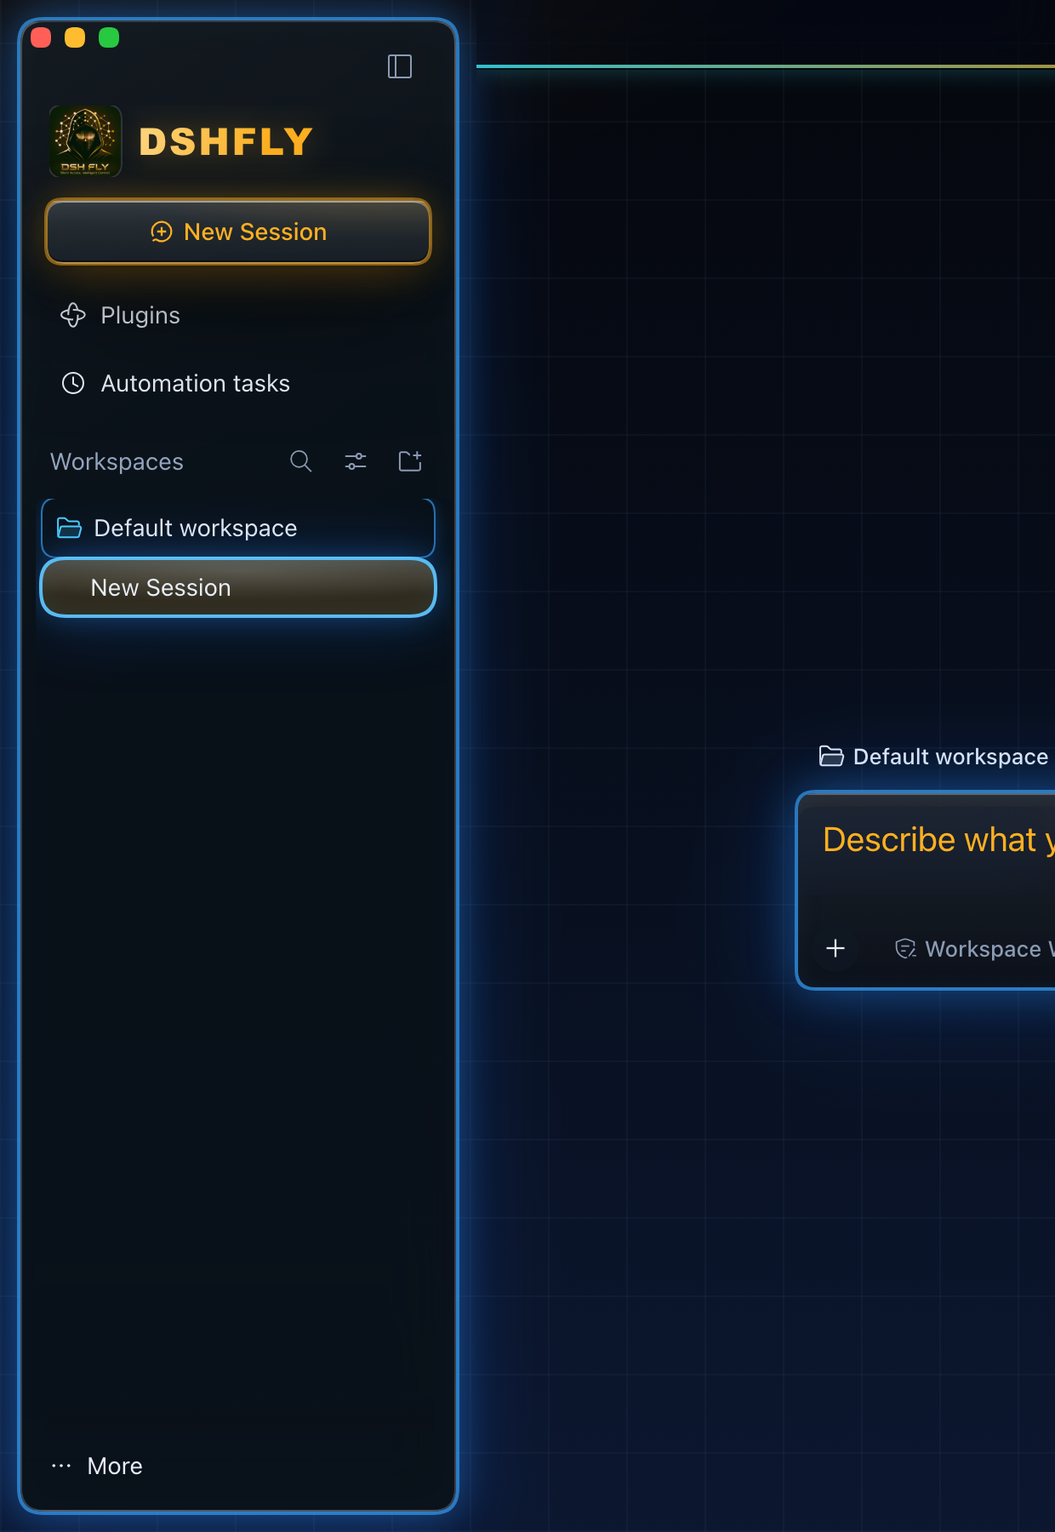
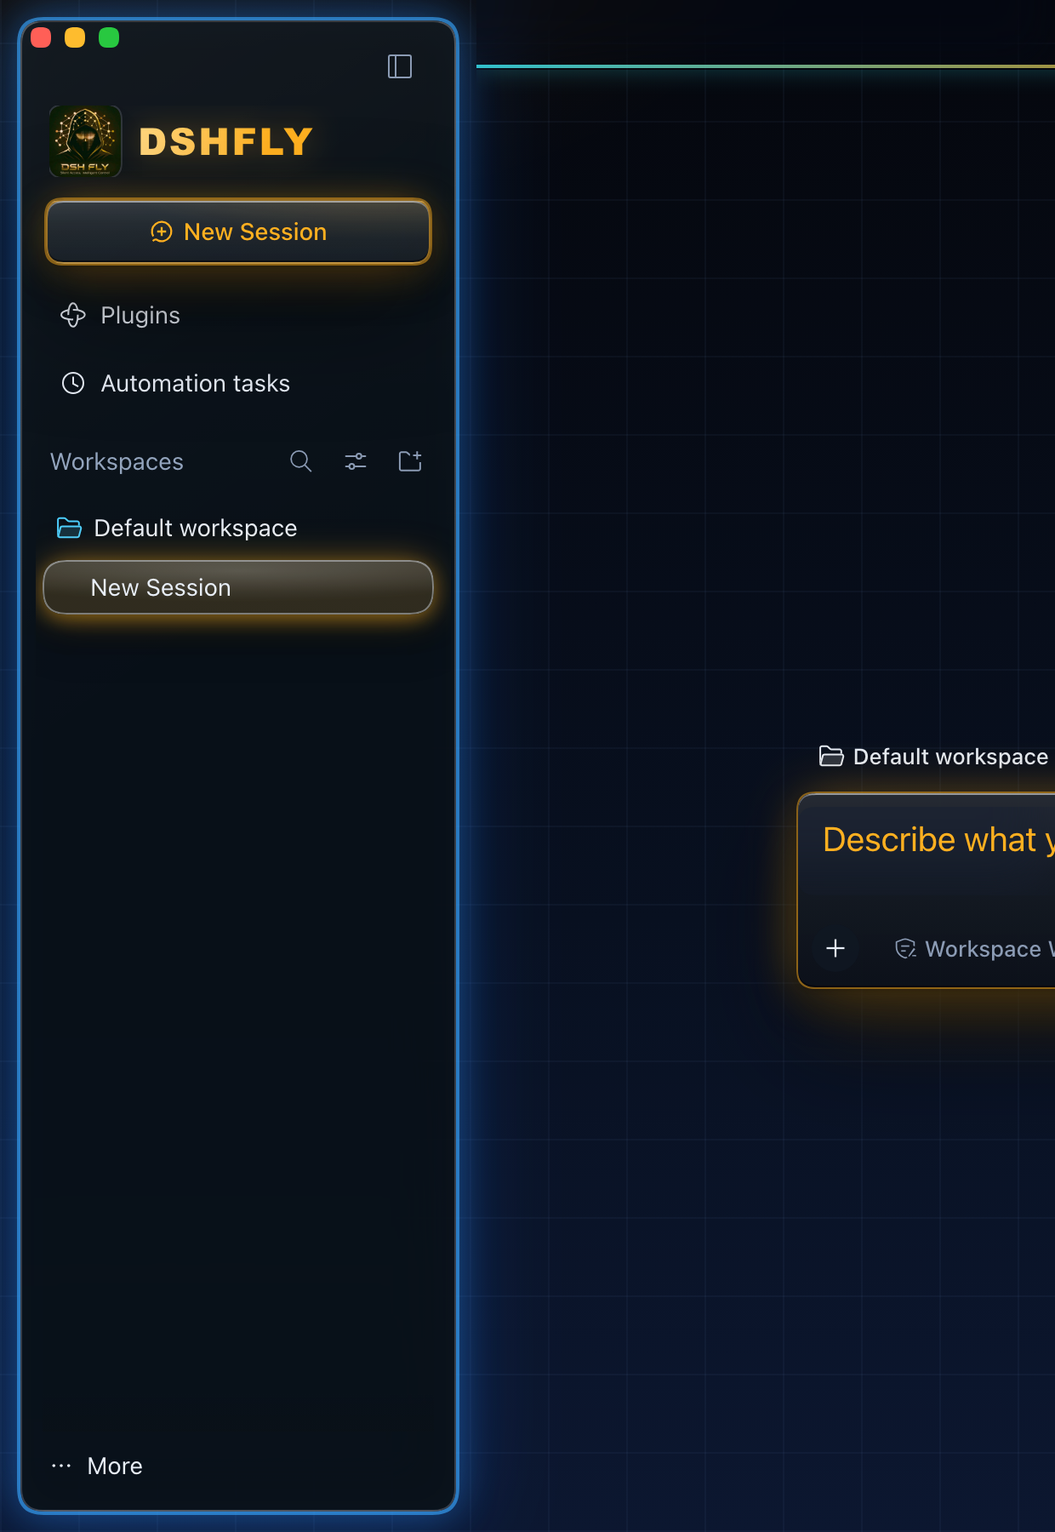
fix(design): 强发光范围收紧 —— 只留「左侧栏边框」与「任务列表卡片」
用户第二次裁决：蓝光只该给①任务列表卡片、②左侧栏边框；上一版把**工作区输入框**和
**会话选中胶囊**也点亮了，越界，必须撤回。

改动：
- 删掉 composer（`[class*='composerStack'] [class*='_card']`）、sessionRow（含选中）、
  projectRow、panelRow、键盘焦点环五类目标；
- 只保留：栏卡 `[class$='_frame']:has(> [class*='sidebarCol']) [class*='sidebarCol']`
  与任务卡 `[class*='rightbarCol'] [class*='_card']` / `[data-session-schedule-task]`；
- 对照图新增 `*-composer.png`（证明输入框保持原样、无蓝光）与 `*-tasks.png`
  （自动化任务面板空态无卡，用上游真实类名 `Ww4dvW_card` 造三张夹具卡判光强）；
- README 第一节改成**范围表（✅ 两处 / ❌ 五处不发光）**，这张表就是验收口径；
  已知坑补两条：范围错误 + 空态面板只能夹具（落地后要用真实任务复拍）。

`npm run verify` 13/13（含设计 token 一致性 20 项）。

Changed region(s): [[0.0306, 0.3422, 0.429, 0.4356], [0.7048, 0.4978, 1.0, 0.6844]]

diff --git a/docs/design/neon-glow/variant-b-pulse.css b/docs/design/neon-glow/variant-b-pulse.css
@@ -1,11 +1,10 @@
 /* ============================================================================
-   neon · 科幻化第二轮 · 方向 B ——「强发光 / 蓝边呼吸」
+   neon · 科幻化第二轮 · 方向 B ——「强发光 / 蓝边呼吸」（**范围收紧版**）
    ----------------------------------------------------------------------------
-   与 A 同一骨架，强度再上一档：
-   · 环 3px（`0 0 0 3px`），中晕 34px、远晕 88px，光更"外溢"；
-   · 侧栏卡与选中行带**呼吸**（4.2s，halo 在 60%–100% 之间摆，不闪）；
-   · 输入卡 / 工具卡 hover 时向外扩一圈；
-   · 全部在 prefers-reduced-motion: no-preference 下才动。
+   范围与 A 完全相同（只左侧栏边框 + 任务列表卡片），强度再上一档：
+   · 环 3px，中晕 34px、远晕 88px；
+   · 任务卡 hover 时有 2.6s 的缓慢呼吸（只在 no-preference 下）；
+   · 其余表面**一律不碰**：输入框、会话胶囊、工作区行、面板行、焦点环全部保持原样。
    ========================================================================== */
 
 html[data-fly-palette='neon'] {
@@ -16,7 +15,7 @@ html[data-fly-palette='neon'] {
   --fly-glow-inner: rgba(120, 214, 255, 0.14);
 }
 
-/* ① 侧栏卡：3px 环 + 大光晕（呼吸） */
+/* ① 左侧栏卡片 */
 html[data-fly-palette='neon'] body[data-ds-dark-theme] [class$='_frame']:has(> [class*='sidebarCol']) [class*='sidebarCol'] {
   box-shadow:
     0 0 0 3px var(--fly-glow-ring),
@@ -25,83 +24,45 @@ html[data-fly-palette='neon'] body[data-ds-dark-theme] [class$='_frame']:has(> [
     inset 0 0 34px -6px var(--fly-glow-inner);
 }
 
-/* ② 会话行 / 工作区行 */
-html[data-fly-palette='neon'] body[data-ds-dark-theme] [class*='sessionRow']:not([class*='selected']),
-html[data-fly-palette='neon'] body[data-ds-dark-theme] [class*='projectRow'] {
-  box-shadow:
-    0 0 0 2px var(--fly-glow-ring),
-    0 0 18px -2px var(--fly-glow-near);
-  border-radius: 10px;
-}
-html[data-fly-palette='neon'] body[data-ds-dark-theme] [class*='sessionRow'][class*='selected'] {
-  box-shadow:
-    0 0 0 3px var(--fly-glow-core),
-    0 0 30px 2px var(--fly-glow-near),
-    0 0 64px 8px var(--fly-glow-far),
-    inset 0 0 24px -4px var(--fly-glow-inner);
-}
-html[data-fly-palette='neon'] body[data-ds-dark-theme] [class*='sessionRow']:hover:not([class*='selected']),
-html[data-fly-palette='neon'] body[data-ds-dark-theme] [class*='projectRow']:hover {
+/* ② 任务列表卡片 */
+html[data-fly-palette='neon'] body[data-ds-dark-theme] [class*='rightbarCol'] [class*='_card'],
+html[data-fly-palette='neon'] body[data-ds-dark-theme] [data-session-schedule-task] {
   box-shadow:
     0 0 0 3px var(--fly-glow-ring),
     0 0 28px 2px var(--fly-glow-near),
-    0 0 60px 4px var(--fly-glow-far);
+    0 0 68px 8px var(--fly-glow-far),
+    inset 0 0 24px -6px var(--fly-glow-inner);
 }
 
-/* ③ 面板行 hover 点亮 */
-html[data-fly-palette='neon'] body[data-ds-dark-theme] [class*='_panelRow'] {
-  border-radius: 10px;
-}
-html[data-fly-palette='neon'] body[data-ds-dark-theme] [class*='_panelRow']:hover {
+/* ③ 任务卡 hover：更亮 + 呼吸（只动光晕，不动环宽） */
+html[data-fly-palette='neon'] body[data-ds-dark-theme] [class*='rightbarCol'] [class*='_card']:hover,
+html[data-fly-palette='neon'] body[data-ds-dark-theme] [data-session-schedule-task]:hover {
   box-shadow:
-    0 0 0 2px var(--fly-glow-ring),
-    0 0 22px 0 var(--fly-glow-near);
-}
-
-/* ④ 输入卡 / 工具卡：3px 环 + 远晕，hover 再外扩 */
-html[data-fly-palette='neon'] body[data-ds-dark-theme] [class*='composerStack'] [class*='_card'],
-html[data-fly-palette='neon'] body[data-ds-dark-theme] [class*='_ioCard'] {
-  box-shadow:
-    0 0 0 3px var(--fly-glow-ring),
+    0 0 0 3px var(--fly-glow-core),
     0 0 36px 4px var(--fly-glow-near),
-    0 0 92px 12px var(--fly-glow-far),
-    inset 0 0 28px -6px var(--fly-glow-inner);
-}
-html[data-fly-palette='neon'] body[data-ds-dark-theme] [class*='composerStack'] [class*='_card']:focus-within,
-html[data-fly-palette='neon'] body[data-ds-dark-theme] [class*='_ioCard']:hover {
-  box-shadow:
-    0 0 0 3px var(--fly-glow-core),
-    0 0 44px 6px var(--fly-glow-near),
-    0 0 110px 14px var(--fly-glow-far);
+    0 0 84px 10px var(--fly-glow-far),
+    inset 0 0 26px -6px var(--fly-glow-inner);
 }
 
-/* ⑤ 焦点 */
-html[data-fly-palette='neon'] body[data-ds-dark-theme] :is(button, a, [role='button'], input, textarea):focus-visible {
-  outline: none;
-  box-shadow:
-    0 0 0 3px var(--fly-glow-core),
-    0 0 28px 0 var(--fly-glow-near);
-}
-
-/* ⑥ 呼吸（选中行 + 侧栏卡），幅度只在光晕上，环的粗细不动 */
 @media (prefers-reduced-motion: no-preference) {
-  html[data-fly-palette='neon'] body[data-ds-dark-theme] [class*='sessionRow'][class*='selected'] {
-    animation: fly-glow-breathe 4.2s ease-in-out infinite;
+  html[data-fly-palette='neon'] body[data-ds-dark-theme] [class*='rightbarCol'] [class*='_card']:hover,
+  html[data-fly-palette='neon'] body[data-ds-dark-theme] [data-session-schedule-task]:hover {
+    animation: fly-glow-task-breathe 2.6s ease-in-out infinite;
   }
-  @keyframes fly-glow-breathe {
+  @keyframes fly-glow-task-breathe {
     0%, 100% {
       box-shadow:
         0 0 0 3px var(--fly-glow-core),
-        0 0 22px 0 rgba(46, 146, 255, 0.34),
-        0 0 52px 4px rgba(34, 118, 255, 0.20),
-        inset 0 0 20px -4px var(--fly-glow-inner);
+        0 0 26px 2px rgba(46, 146, 255, 0.36),
+        0 0 64px 6px rgba(34, 118, 255, 0.22),
+        inset 0 0 22px -6px var(--fly-glow-inner);
     }
-    60% {
+    55% {
       box-shadow:
         0 0 0 3px var(--fly-glow-core),
-        0 0 34px 4px var(--fly-glow-near),
-        0 0 76px 10px var(--fly-glow-far),
-        inset 0 0 26px -4px var(--fly-glow-inner);
+        0 0 38px 5px var(--fly-glow-near),
+        0 0 92px 12px var(--fly-glow-far),
+        inset 0 0 28px -6px var(--fly-glow-inner);
     }
   }
 }

diff --git a/docs/design/neon-glow/variant-a-strong.css b/docs/design/neon-glow/variant-a-strong.css
@@ -1,15 +1,19 @@
 /* ============================================================================
-   neon · 科幻化第二轮 · 方向 A ——「强发光 / 蓝边常亮」
+   neon · 科幻化第二轮 · 方向 A ——「强发光 / 蓝边常亮」（**范围收紧版**）
    ----------------------------------------------------------------------------
-   方向按用户给的两个参考点：
-   ① 发光类组件（任务栏列表卡 / 输入卡）——蓝色发光边框**加粗**（2px 实环）、外光晕**加强**；
-   ② 左侧会话栏的卡片边框也吃同一套发光（蓝边 + 外光晕 + 极淡内辉）。
+   范围（用户 2026-10-18 第二次裁决）：
+     ✅ 只给两处：① 左侧栏的**卡片边框**；② **任务列表卡片**（schedule / automation 任务卡）。
+     ❌ 不许发光：工作区输入框（composer）、会话选中胶囊（sessionRow）、工作区行（projectRow）、
+        面板行（panelRow）、键盘焦点环 —— 上一版把这些也点亮了，是越界。
 
-   实现手法：一律用 `box-shadow` 叠环（0 0 0 Npx 不加布局），不写 border —— 改 border 会挪内容。
-   光晕分三层：近环（0 0 0 2px）+ 中晕（0 0 18px）+ 远晕（0 0 46px），内辉一层 inset。
+   手法：不写 border，只用 `box-shadow` 叠环（`0 0 0 Npx` 做"加粗蓝边"，不改布局），
+   再叠中晕 / 远晕 / 内辉。两个旋钮可以分别调。
 
-   锚点：`sidebarCol` / `sessionRow` / `projectRow` / `panelRow` / `composerStack [class*='_card']`
-   / `_ioCard`。不写死 hash。
+   锚点：
+   · 左侧栏卡：`[class$='_frame']:has(> [class*='sidebarCol']) [class*='sidebarCol']`
+   · 任务卡：`[data-session-schedule-task]`（会话里的任务条）与
+     `[class*='rightbarCol'] [class*='_card']`（自动化任务面板里的任务卡）。
+   不写死 hash。
    ========================================================================== */
 
 html[data-fly-palette='neon'] {
@@ -20,7 +24,7 @@ html[data-fly-palette='neon'] {
   --fly-glow-inner: rgba(96, 200, 255, 0.10);
 }
 
-/* ① 侧栏卡：蓝边 + 三层光晕 + 内辉 */
+/* ① 左侧栏卡片：蓝边 + 三层光晕 + 内辉 */
 html[data-fly-palette='neon'] body[data-ds-dark-theme] [class$='_frame']:has(> [class*='sidebarCol']) [class*='sidebarCol'] {
   box-shadow:
     0 0 0 2px var(--fly-glow-ring),
@@ -29,53 +33,22 @@ html[data-fly-palette='neon'] body[data-ds-dark-theme] [class$='_frame']:has(> [
     inset 0 0 26px -6px var(--fly-glow-inner);
 }
 
-/* ② 会话行 / 工作区行：蓝色发光边框（选中更亮、常态也带一层） */
-html[data-fly-palette='neon'] body[data-ds-dark-theme] [class*='sessionRow']:not([class*='selected']),
-html[data-fly-palette='neon'] body[data-ds-dark-theme] [class*='projectRow'] {
+/* ② 任务列表卡片：同样一套光（边更亮一档，因为卡比栏小） */
+html[data-fly-palette='neon'] body[data-ds-dark-theme] [class*='rightbarCol'] [class*='_card'],
+html[data-fly-palette='neon'] body[data-ds-dark-theme] [data-session-schedule-task] {
   box-shadow:
-    0 0 0 1px var(--fly-glow-ring),
-    0 0 12px -2px var(--fly-glow-near);
-  border-radius: 10px;
+    0 0 0 2px var(--fly-glow-ring),
+    0 0 20px 1px var(--fly-glow-near),
+    0 0 48px 4px var(--fly-glow-far),
+    inset 0 0 18px -6px var(--fly-glow-inner);
 }
-html[data-fly-palette='neon'] body[data-ds-dark-theme] [class*='sessionRow'][class*='selected'] {
+
+/* ③ 任务卡 hover：只加亮环与中晕，不改变尺寸 */
+html[data-fly-palette='neon'] body[data-ds-dark-theme] [class*='rightbarCol'] [class*='_card']:hover,
+html[data-fly-palette='neon'] body[data-ds-dark-theme] [data-session-schedule-task]:hover {
   box-shadow:
     0 0 0 2px var(--fly-glow-core),
-    0 0 18px 0 var(--fly-glow-near),
-    0 0 42px 4px var(--fly-glow-far),
-    inset 0 0 18px -4px var(--fly-glow-inner);
-}
-html[data-fly-palette='neon'] body[data-ds-dark-theme] [class*='sessionRow']:hover:not([class*='selected']),
-html[data-fly-palette='neon'] body[data-ds-dark-theme] [class*='projectRow']:hover {
-  box-shadow:
-    0 0 0 2px var(--fly-glow-ring),
-    0 0 20px 0 var(--fly-glow-near),
-    0 0 44px 2px var(--fly-glow-far);
-}
-
-/* ③ 面板行（Plugins / Automation tasks）：hover 才点亮，避免整栏全是圈 */
-html[data-fly-palette='neon'] body[data-ds-dark-theme] [class*='_panelRow'] {
-  border-radius: 10px;
-}
-html[data-fly-palette='neon'] body[data-ds-dark-theme] [class*='_panelRow']:hover {
-  box-shadow:
-    0 0 0 1px var(--fly-glow-ring),
-    0 0 16px -2px var(--fly-glow-near);
-}
-
-/* ④ 输入卡（Describe what…）：换成蓝光（现有是琥珀光圈），边更亮、晕更远 */
-html[data-fly-palette='neon'] body[data-ds-dark-theme] [class*='composerStack'] [class*='_card'],
-html[data-fly-palette='neon'] body[data-ds-dark-theme] [class*='_ioCard'] {
-  box-shadow:
-    0 0 0 2px var(--fly-glow-ring),
     0 0 26px 2px var(--fly-glow-near),
-    0 0 64px 8px var(--fly-glow-far),
-    inset 0 0 22px -6px var(--fly-glow-inner);
-}
-
-/* ⑤ 键盘焦点沿用同一套光 */
-html[data-fly-palette='neon'] body[data-ds-dark-theme] :is(button, a, [role='button'], input, textarea):focus-visible {
-  outline: none;
-  box-shadow:
-    0 0 0 2px var(--fly-glow-core),
-    0 0 20px 0 var(--fly-glow-near);
+    0 0 60px 6px var(--fly-glow-far),
+    inset 0 0 20px -6px var(--fly-glow-inner);
 }

diff --git a/docs/design/neon-glow/README.md b/docs/design/neon-glow/README.md
@@ -1,43 +1,43 @@
 # 设计稿 · neon 科幻化第二轮 ——「强发光」（蓝边加粗 + 光晕加强）
 
-> 2026-10-18。第一轮（网格场 + HUD 取景框，见 [`../neon-scifi/`](../neon-scifi/)）方向被否。
-> 用户给了两个参考点，这一轮就按它做：
-> 1. **发光类组件**（任务栏列表卡、输入卡…）——蓝色发光边框**加粗**，光晕**加强**；
-> 2. **左侧会话栏的卡片边框**也要吃发光。
+> 2026-10-18。第一轮（网格场 + HUD 取景框）方向被否；第二轮初版**范围放大了**（把输入框和
+> 会话选中胶囊也点亮），用户第二次裁决后收紧为：
 >
-> 范围：只动 neon 深色半区；solid/glass/volume 与浅色半区不动。
+> **只给两处**：① 左侧栏的卡片边框；② 任务列表卡片（schedule / automation 任务卡）。
+> 其余表面**一律不发光**。
 
-## 1. 做法（一句话）
+## 1. 范围（这张表就是验收口径）
 
-**不写 `border`，只用 `box-shadow` 叠环**：`0 0 0 Npx` 做出"加粗的蓝边"（不加布局、不挪内容），
-再叠中晕 / 远晕 / 内辉三层。这样"边框变粗"和"光晕变强"是两个独立旋钮，可以分别调。
-
-| 层 | 作用 | A（常亮） | B（呼吸） |
+| 表面 | 发光 | 钩子 | 说明 |
 | --- | --- | --- | --- |
-| 近环 `0 0 0 Npx` | 视觉上的"粗边框" | 2px | 3px |
-| 中晕 `0 0 22/34px` | 主要光晕 | 22px | 34px |
-| 远晕 `0 0 56/88px` | 外溢感 | 56px | 88px |
-| 内辉 `inset 0 0 26px` | 让板内也有光 | 26px | 34px |
-| 动效 | 呼吸（选中行） | 无 | 4.2s，只在 `no-preference` 下 |
+| 左侧栏卡片边框 | ✅ | `[class$='_frame']:has(> [class*='sidebarCol']) [class*='sidebarCol']` | 蓝环 + 中晕 + 远晕 + 内辉 |
+| 任务列表卡片 | ✅ | `[class*='rightbarCol'] [class*='_card']`（自动化任务面板）/ `[data-session-schedule-task]`（会话内任务条） | 同上，比栏卡亮一档 |
+| 工作区输入框（composer） | ❌ | —— | 保持原生暖光；见 `shots/variant-a-composer.png` |
+| 会话选中胶囊（sessionRow） | ❌ | —— | 保持原生；不叠蓝 |
+| 工作区行（projectRow） | ❌ | —— | 同上 |
+| 面板行（Plugins 等） | ❌ | —— | 同上 |
+| 键盘焦点环 | ❌ | —— | 不做改动（焦点环仍走上游默认） |
 
-## 2. 对照图（真页面注入 CSS 后截，红绿灯为叠加色块）
+## 2. 做法
 
-| | 侧栏 | 设置弹窗 |
+**不写 `border`，只用 `box-shadow` 叠环**：`0 0 0 Npx` 做"加粗的蓝边"（不加布局、不挪内容），
+再叠中晕 / 远晕 / 内辉。这样"边框变粗"和"光晕变强"是两个独立旋钮。
+
+| 层 | A（常亮） | B（呼吸） |
 | --- | --- | --- |
-| 现状 | ![baseline](shots/baseline-sidebar.png) | ![baseline](shots/baseline-settings.png) |
-| A · 常亮 | ![A](shots/variant-a-sidebar.png) | ![A](shots/variant-a-settings.png) |
-| B · 呼吸 | ![B](shots/variant-b-sidebar.png) | ![B](shots/variant-b-settings.png) |
+| 近环 `0 0 0 Npx` | 2px | 3px |
+| 中晕 | 22px（栏卡）/ 20px（任务卡） | 34px / 28px |
+| 远晕 | 56px / 48px | 88px / 68px |
+| 内辉 | 26px / 18px | 34px / 24px |
+| 动效 | 无 | 任务卡 hover 2.6s 呼吸（仅 `no-preference`） |
 
-## 3. 哪些面吃光
+## 3. 对照图（真页面注入 CSS 后截；任务卡是夹具，见 §6）
 
-| 面 | 钩子 | A | B |
+| | 侧栏（只栏卡发光） | 任务卡 | 输入框（必须无蓝光） |
 | --- | --- | --- | --- |
-| 左侧会话栏卡片 | `[class$='_frame']:has(> [class*='sidebarCol']) [class*='sidebarCol']` | 2px 环 + 22/56px 晕 + 内辉 | 3px 环 + 34/88px 晕 + 内辉 |
-| 会话行（选中） | `[class*='sessionRow'][class*='selected']` | 2px 亮环 + 18/42px | 3px + 30/64px + 呼吸 |
-| 会话行（常态）/ 工作区行 | `[class*='sessionRow']:not([class*='selected'])` / `[class*='projectRow']` | 1px 环 + 12px | 2px + 18px |
-| 面板行（Plugins 等） | `[class*='_panelRow']:hover` | 1px + 16px | 2px + 22px |
-| 输入卡 / 工具卡 | `[class*='composerStack'] [class*='_card']` / `[class*='_ioCard']` | 2px + 26/64px | 3px + 36/92px（focus-within 再扩） |
-| 键盘焦点 | `:is(button,a,[role='button'],input,textarea):focus-visible` | 2px 环 + 20px | 3px + 28px |
+| 现状 | ![baseline](shots/baseline-sidebar.png) | ![baseline](shots/baseline-tasks.png) | ![baseline](shots/baseline-composer.png) |
+| A · 常亮 | ![A](shots/variant-a-sidebar.png) | ![A](shots/variant-a-tasks.png) | ![A](shots/variant-a-composer.png) |
+| B · 呼吸 | ![B](shots/variant-b-sidebar.png) | ![B](shots/variant-b-tasks.png) | ![B](shots/variant-b-composer.png) |
 
 ## 4. token（深色半区）
 
@@ -49,42 +49,43 @@
 | `--fly-glow-far` | `--dsw-specific-fly-glow-far` | `rgba(34,118,255,.22)` | `rgba(34,118,255,.28)` |
 | `--fly-glow-inner` | `--dsw-specific-fly-glow-inner` | `rgba(96,200,255,.10)` | `rgba(120,214,255,.14)` |
 
-## 5. 已知坑（这一轮实测踩到的）
+## 5. 已知坑（实测）
 
-1. **特异性不够 = 整条规则静默失效**。皮肤自己的卡片/行规则用的是
-   `html[data-fly-palette='neon'] … :not([data-sidebar-collapsed]) > [class*='sidebarCol']`
-   这类形状，第一版本稿只写 `html[data-fly-palette='neon'] … [class*='sidebarCol']`，
-   算下来特异度更低 —— 量到的 `box-shadow` 是皮肤的 slab 阶梯，**光一条都没画**。
-   修法：本稿所有规则加 `body[data-ds-dark-theme]` 前缀（与皮肤深色半区同作用域、更高一级）。
-2. **frame 有 `overflow: hidden`**：卡片外晕在窗口边缘会被裁，12px 的卡片外边距就是光晕能露出的全部宽度。
-   所以"外晕加强"更多体现在**环形亮度 + 内辉**上；若要更大外溢，得改 frame 的裁剪（不属于本轮）。
-3. **`[class*='_newSession']` 双命中**（`button.newSession` 与 `span.newSessionLabelMask`），
-   按钮规则必须收窄到 `button`，否则内部多一个方框（第一轮同样踩过）。
-4. **CTA 保留暖光**：New Session 是品牌按钮，蓝光只给"表面/行/卡"，暖光留给动作钮 ——
-   两者并置时读起来是"界面冷、动作热"。若你要全冷，改 `button[class*='_newSession']` 一条即可。
+1. **范围错误是这一轮最大的坑**：初版把"发光类组件"理解成了"所有卡"，于是 composer 与
+   会话胶囊也被点亮 —— 用户明确否决。**设计前先问"哪几处"，并在稿子里写出"不发光清单"**，
+   这条清单本身就是验收口径（§1 的表）。
+2. **特异性不够 = 整条规则静默失效**：皮肤自己的卡/行规则带 `:not([data-sidebar-collapsed]) >`
+   这类形状，初版少一颗属性，读回的 `box-shadow` 还是皮肤原值。修法：加 `body[data-ds-dark-theme]`
+   前缀（与皮肤深色半区同作用域、更高一级）。
+3. **frame 的 `overflow: hidden`** 会裁掉栏卡外晕：12px 的卡片外边距就是外晕能露的全部宽度，
+   所以"外晕加强"主要靠环亮度 + 内辉。
+4. **`[class*='_newSession']` 双命中**（`button` 与内部 `span`），按钮规则必须收窄到 `button`。
+5. **自动化任务面板在空态下没有卡**：任务卡截图用夹具（三张卡，类名沿用上游真实的 `Ww4dvW_card`，
+   挂在 `rightbarCol` 内以满足作用域）。**落地后必须用真实任务复拍一张**再定强度。
 
 ## 6. 风险
 
-| 风险 | 现状 / 处置 |
+| 风险 | 处置 |
 | --- | --- |
-| 多层大半径 shadow 在 1× 外接屏显糊 | A 的远晕 56px 是上限；B 88px 只建议在 2× 屏用。落地后按 2560×1440 实拍复核 |
-| 常亮发光过多 → 整屏发蓝、层次丢失 | 常态只有 1–2px 环 + 12px 晕；**大光晕只给选中/输入卡** |
-| 呼吸动画干扰阅读 | 只在 `prefers-reduced-motion: no-preference` 下开；幅度只动光晕，不动环宽 |
-| 浅色半区 | 不做（白底蓝晕会糊）；浅色半区第二轮单独设计 |
+| 多层大半径 shadow 在 1× 外接屏显糊 | A 的 56/48px 是上限；B 建议只用于 2× 屏。落地后按 2560×1440 实拍复核 |
+| 任务卡数量多时整屏发蓝 | 大光晕只给任务卡与栏卡；其余表面不发光（§1 的 ❌ 清单就是约束） |
+| 呼吸动画干扰阅读 | 仅 `no-preference`；只动光晕不动环宽 |
+| 浅色半区 | 不做（白底蓝晕会糊），第二轮单独设计 |
 
 ## 7. 落地映射
 
-1. `src/client/tokens.ts`：把选中强度的 5 颗 `--dsw-specific-fly-glow-*` 并进 `NEON_DARK`；
+1. `src/client/tokens.ts`：选中强度的 5 颗 `--dsw-specific-fly-glow-*` 并进 `NEON_DARK`；
 2. `src/client/styles.ts`：把选中变体里除 token 声明块外的规则搬进 neon 深色段，
-   `--fly-glow-*` 按 §4 换成入库名（逐字节一致，`scripts/verify-design-tokens.mjs` 会钉住）；
+   `--fly-glow-*` 换成入库名（`scripts/verify-design-tokens.mjs` 会逐字节钉住）；
 3. `scripts/verify.mjs` 建议补的断言：
-   - 侧栏卡的 `box-shadow` 含 `0 0 0 2px`（或 3px）与至少两层外晕 → "蓝边加粗 + 光晕"真的画了；
-   - 选中行的 `box-shadow` 与常态行**不同**（否则光只是画在同一层）；
-   - `prefers-reduced-motion: reduce` 下 `animation-name === 'none'`；
+   - 栏卡 `box-shadow` 含 `0 0 0 2px/3px` 且至少两层外晕；
+   - 任务卡 `box-shadow` 含环 + 外晕；
+   - **反向**：composer 与 sessionRow 的 `box-shadow` 与改前**逐字节相同**（范围不许扩散）；
+   - `prefers-reduced-motion: reduce` 下 `animation-name === 'none'`。
 4. `docs/shots/` 补两张画廊图。
 
-## 8. 等你裁决
+## 8. 待你确认
 
 - **A 还是 B**（常亮 / 呼吸）；
-- 是否要 **CTA 也转蓝**（现在是冷界面 + 暖按钮）；
-- "任务栏列表卡"如果指的是**对话里的任务/工具卡片**，请指一张截图，我把 `_ioCard` 那组按同样强度对齐（本轮已带上通用规则，但没能在空会话里实拍验证）。
+- 栏卡与任务卡谁更亮一档（当前任务卡略亮）；
+- 任务卡强度最终要拿**真实任务**复拍确认（现在是夹具）。
